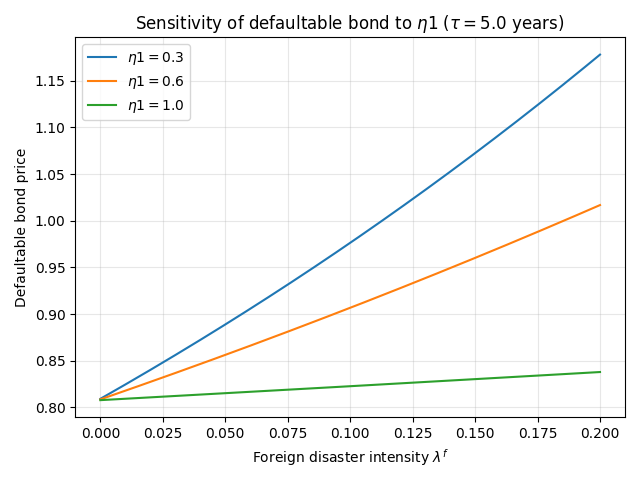
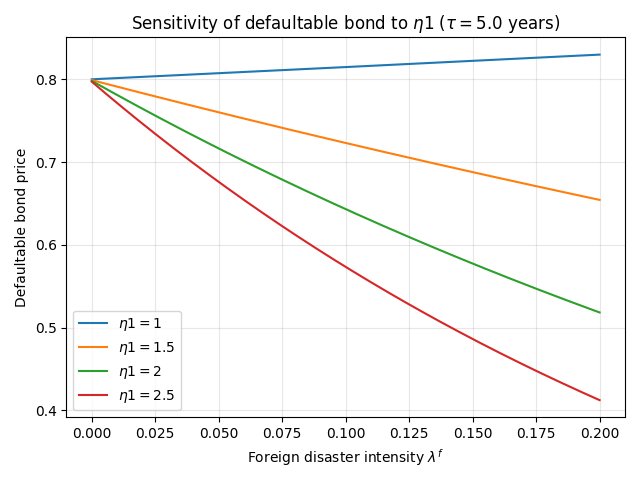
fix param values, update plots

diff --git a/draft2/bondpricesplot.py b/draft2/bondpricesplot.py
@@ -106,7 +106,7 @@ def plot_rf_vs_defaultable(params: DisasterModelParams, tau: float = 5.0):
     plt.ylabel("Bond price")
     plt.title(rf"Risk-free vs defaultable bond ($\tau = {tau}$ years, $\lambda^g$ fixed)")
     plt.legend()
-    plt.grid(True)
+    plt.grid(True, alpha=0.3)
     plt.tight_layout()
     plt.show()
 
@@ -142,7 +142,7 @@ def plot_gamma_sensitivity(params_base: DisasterModelParams, tau: float = 5.0):
     plt.ylabel("Defaultable bond price")
     plt.title(rf"Sensitivity to risk aversion $\gamma$ ($\tau={tau}$ years)")
     plt.legend()
-    plt.grid(True)
+    plt.grid(True, alpha=0.3)
     plt.tight_layout()
     plt.savefig("/Users/aryaman/honors/draft2/figures/defaultable_gamma_sensitivity.png")
     plt.show()
@@ -158,13 +158,13 @@ def plot_yields_and_spread_vs_lambda_f(params: DisasterModelParams,
     ax1.plot(lam_f_vals, y_rf, label=r"Risk-free yield")
     ax1.plot(lam_f_vals, y_d, label=r"Defaultable yield")
     ax1.set_xlabel(r"Foreign disaster intensity $\lambda^f$")
-    ax1.set_ylabel(r"Yield (percent per year)")
+    ax1.set_ylabel(r"Yield (annual %)")
     ax1.set_title(rf"Implied yields and credit spread ($\tau={tau}$ years)")
     ax1.grid(True)
 
     ax2 = ax1.twinx()
-    ax2.plot(lam_f_vals, spread, label=r"Yield spread", color="black", alpha=0.7)
-    ax2.set_ylabel(r"Yield spread (percent)")
+    ax2.plot(lam_f_vals, spread, label=r"Yield spread (%)", color="black", alpha=0.7, linestyle="--")
+    ax2.set_ylabel(r"Yield spread (%)")
 
     
     lines_1, labels_1 = ax1.get_legend_handles_labels()
@@ -207,6 +207,27 @@ def plot_param_sensitivity_defaultable(params_base: DisasterModelParams,
     plt.savefig(f"/Users/aryaman/honors/draft2/figures/defaultable_sensitivity_{param_name}.png")
     plt.show()
 
+def plot_short_rate_vs_lambda_f(params: DisasterModelParams,
+                                lam_f_max: float = 0.2):
+    lam_f_vals = np.linspace(0.0, lam_f_max, 200)
+
+    params.compute_b_sdf()
+    C_r = np.exp(params.b_sdf * params.v - params.gamma * params.Z) * (np.exp(params.Z) - 1)
+    A_r = params.beta + params.mu - params.gamma * params.sigma_c**2
+    lam_g = params.lam_bar_g
+    r_vals = A_r + C_r * (lam_f_vals + lam_g)
+
+    plt.figure()
+    plt.plot(lam_f_vals, r_vals, color="blue", label=r"Foreign short rate $r_t^*$")
+    plt.xlabel(r"Foreign disaster intensity $\lambda^f$")
+    plt.ylabel(r"Short rate $r_t^*$")
+    plt.title(r"Foreign short rate $r_t^*$ as function of $\lambda^f$")
+    plt.grid(True, alpha=0.3)
+    plt.legend()
+    plt.tight_layout()
+    plt.savefig("/Users/aryaman/honors/draft2/figures/short_rate_vs_lambda_f.png")
+    plt.show()
+
 
 if __name__ == "__main__":
     params = DisasterModelParams()
@@ -216,6 +237,7 @@ if __name__ == "__main__":
     # plot_defaultable_heatmap(params, tau=tau)
     plot_gamma_sensitivity(params, tau=tau)
     plot_yields_and_spread_vs_lambda_f(params, tau=tau)
+    plot_short_rate_vs_lambda_f(params)
 
     plot_param_sensitivity_defaultable(params, tau, "beta", [0.01, 0.02, 0.03])
     plot_param_sensitivity_defaultable(params, tau, "mu", [0.005, 0.015, 0.025])
@@ -225,5 +247,6 @@ if __name__ == "__main__":
     # plot_param_sensitivity_defaultable(params, tau, "sigma_lambda", [0.05, 0.1, 0.2])
     plot_param_sensitivity_defaultable(params, tau, "v", [0.005, 0.01, 0.05])
     plot_param_sensitivity_defaultable(params, tau, "R", [0.2, 0.4, 0.6])
-    plot_param_sensitivity_defaultable(params, tau, "eta1", [0.3, 0.6, 1.0])
-    plot_param_sensitivity_defaultable(params, tau, "eta2", [0.4, 0.8, 1.2])
+    plot_param_sensitivity_defaultable(params, tau, "eta1", [1, 1.5, 2, 2.5])
+    plot_param_sensitivity_defaultable(params, tau, "eta2", [1, 1.5, 2, 2.5])
+    

diff --git a/draft2/modelparams.py b/draft2/modelparams.py
@@ -20,8 +20,8 @@ class DisasterModelParams:
     # Default/hazard structure
     R: float = 0.4          # recovery of market value (RMV) R
     h0_star: float = 0.02   # baseline hazard h*_0
-    eta1: float = 0.6       # loading on λ_f in hazard
-    eta2: float = 0.8       # loading on λ_g in hazard
+    eta1: float = 1.5       # loading on λ_f in hazard
+    eta2: float = 1         # loading on λ_g in hazard
 
     # Constant b in the SDF 
     b_sdf: float = None    
